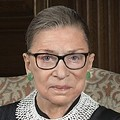
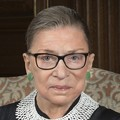
[img] update portraits and descriptions for agent personas

diff --git a/.github/agents/portraits/generate.py b/.github/agents/portraits/generate.py
@@ -37,24 +37,24 @@ PORTRAITS = [
         "name": "euler",
         "file": "Leonhard_Euler.jpg",
         "source": "wikimedia",
-        "width": 400,
-        "crop": (70, 50, 330, 310),
+        "width": 1920,
+        "crop": (336, 240, 1584, 1488),
         "licence": "Public domain",
     },
     {
         "name": "grace",
         "file": "Commodore_Grace_M._Hopper,_USN_(covered).jpg",
         "source": "wikimedia",
-        "width": 400,
-        "crop": (170, 80, 350, 260),
+        "width": 1920,
+        "crop": (816, 384, 1680, 1248),
         "licence": "Public domain (US government work)",
     },
     {
         "name": "appius",
         "file": "Musei_vaticani,_braccio_chiaramonti,_busto_02.JPG",
         "source": "wikimedia",
-        "width": 500,
-        "crop": (60, 10, 430, 410),
+        "width": 1920,
+        "crop": (230, 38, 1651, 1574),
         "licence": "Public domain",
     },
     {
@@ -69,24 +69,24 @@ PORTRAITS = [
         "name": "flo",
         "file": "Florence_Nightingale_(H_Hering_NPG_x82368).jpg",
         "source": "wikimedia",
-        "width": 400,
-        "crop": (60, 30, 340, 320),
+        "width": 1920,
+        "crop": (288, 144, 1632, 1536),
         "licence": "Public domain",
     },
     {
         "name": "terry",
         "file": "10.12.12TerryPratchettByLuigiNovi1.jpg",
         "source": "wikimedia",
-        "width": 400,
-        "crop": (90, 40, 310, 260),
+        "width": 1920,
+        "crop": (432, 192, 1488, 1248),
         "licence": "CC BY 3.0",
     },
     {
         "name": "ruth",
         "file": "Ruth_Bader_Ginsburg_2016_portrait.jpg",
         "source": "wikimedia",
-        "width": 400,
-        "crop": (120, 33, 305, 218),
+        "width": 1920,
+        "crop": (576, 158, 1464, 1046),
         "licence": "Public domain (US government work)",
     },
 ]
